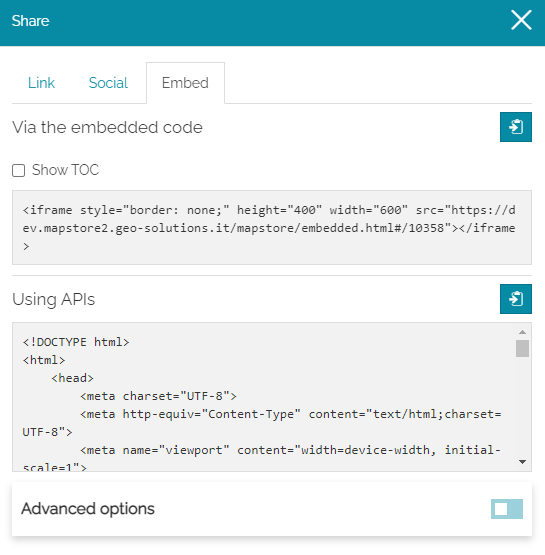
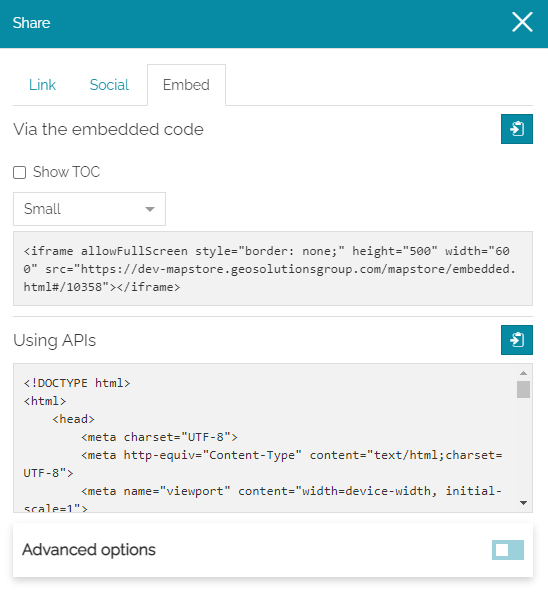
6850_updataguide

diff --git a/docs/user-guide/catalog.md b/docs/user-guide/catalog.md
@@ -85,7 +85,7 @@ In **general settings of**  CSW service the user can specify the title to assign
 
 #### Advanced Settings
 
-* *Format*: the default image format for the layers added to the map (`png`, `png8`, `jpeg`, `vnd.jpeg-png` or `gif`). The format configured through this option will be automatically used for all layers loaded from the involved catalog source (if not configured a default `image/png` is used). For layers already loaded on the map, it is possible to change the format through the [Layer Settings](https://mapstore.readthedocs.io/en/latest/user-guide/layer-settings/#display) tool as usual.
+* *Format*: the default image format for the layers added to the map (`png`, `png8`, `jpeg`, `vnd.jpeg-png`, `vnd.jpeg-png8` or `gif`). The format configured through this option will be automatically used for all layers loaded from the involved catalog source (if not configured a default `image/png` is used). For layers already loaded on the map, it is possible to change the format through the [Layer Settings](https://mapstore.readthedocs.io/en/latest/user-guide/layer-settings/#display) tool as usual.
 
 * *Layer tile size*: it represents tile size (width and height) to be used for tiles of all layers added to the map from the catalog source (`256x256` or `512x512`). For layers already loaded on the map, it is possible to change the tile size through the [Layer Settings](https://mapstore.readthedocs.io/en/latest/user-guide/layer-settings/#display) tool as usual.
 
@@ -98,7 +98,7 @@ In **general settings of**  CSW service the user can specify the title to assign
 
 In order to better understand this function, let's make an example supposing to edit the `GeoSolutions GeoServer CSW` service:
 
-* Change the *Format* of the image that will be rendered on the map (`png`, `png8`, `jpeg`, `vnd.jpeg-png` or `gif`) for layers belonging to the selected source
+* Change the *Format* of the image that will be rendered on the map (`png`, `png8`, `jpeg`, `vnd.jpeg-png`,`vnd.jpeg-png8` or `gif`) for layers belonging to the selected source
 
 * *Show metadata template* can be enabled when the user wants to insert in the layer description a text with metadata information 
 

diff --git a/docs/user-guide/share.md b/docs/user-guide/share.md
@@ -35,13 +35,17 @@ The **Social** section allows the user to share the resource on the most common 
 
 The **Embed** section provides to the user the needed snippets, **embedded code** or the **MS APIs** (only available for *maps*) to embed MapStore in a third party web page.
 
-<img src="../img/share/embed.jpg" class="ms-docimage"  style="max-width:400px;"/>
+<img src="../img/share/embed.jpg" class="ms-docimage"  style="max-width:400px;"/> 
 
-In addition, [MapStore](https://mapstore.geo-solutions.it/mapstore/#/) provides two options to customize a bit the *embedded code*:
+In addition, [MapStore](https://mapstore.geo-solutions.it/mapstore/#/) provides options to customize a bit the *embedded code*:
 
 * For maps, the user can choose to show the [TOC](toc.md) in the embedded map by enabling the **Shown TOC** option
 
-<img src="../img/share/embed_maps.jpg" class="ms-docimage"  style="max-width:400px;"/>
+<img src="../img/share/embed_maps_toc.jpg" class="ms-docimage"  style="max-width:400px;"/> 
+
+* For maps, the user can configure **height** and **width** of the embedded map by choosing `Small` (*600x500*), `Medium` (*800x600*), `Large` (*1000x800*) and `Custom`
+
+<img src="../img/share/embed_maps_size.jpg" class="ms-docimage"  style="max-width:400px;"/>
 
 * For dashboards, the user can show the [connections](connecting-widgets.md) between widgets on the embedded dashboard by enabling the **Show connections**
 

diff --git a/docs/user-guide/layer-settings.md b/docs/user-guide/layer-settings.md
@@ -55,7 +55,7 @@ Through the second section of the layer settings panel it is possible to change 
 
 In particular, the user is allowed to:
 
-* Set the image format: choosing between `png`, `png8`, `jpeg`, `vnd.jpeg-png` and `gif` 
+* Set the image format: choosing between `png`, `png8`, `jpeg`, `vnd.jpeg-png`, `vnd.jpeg-png8` and `gif` 
 
 * Set the size of layer tiles: choosing between `256` or `512`
 
